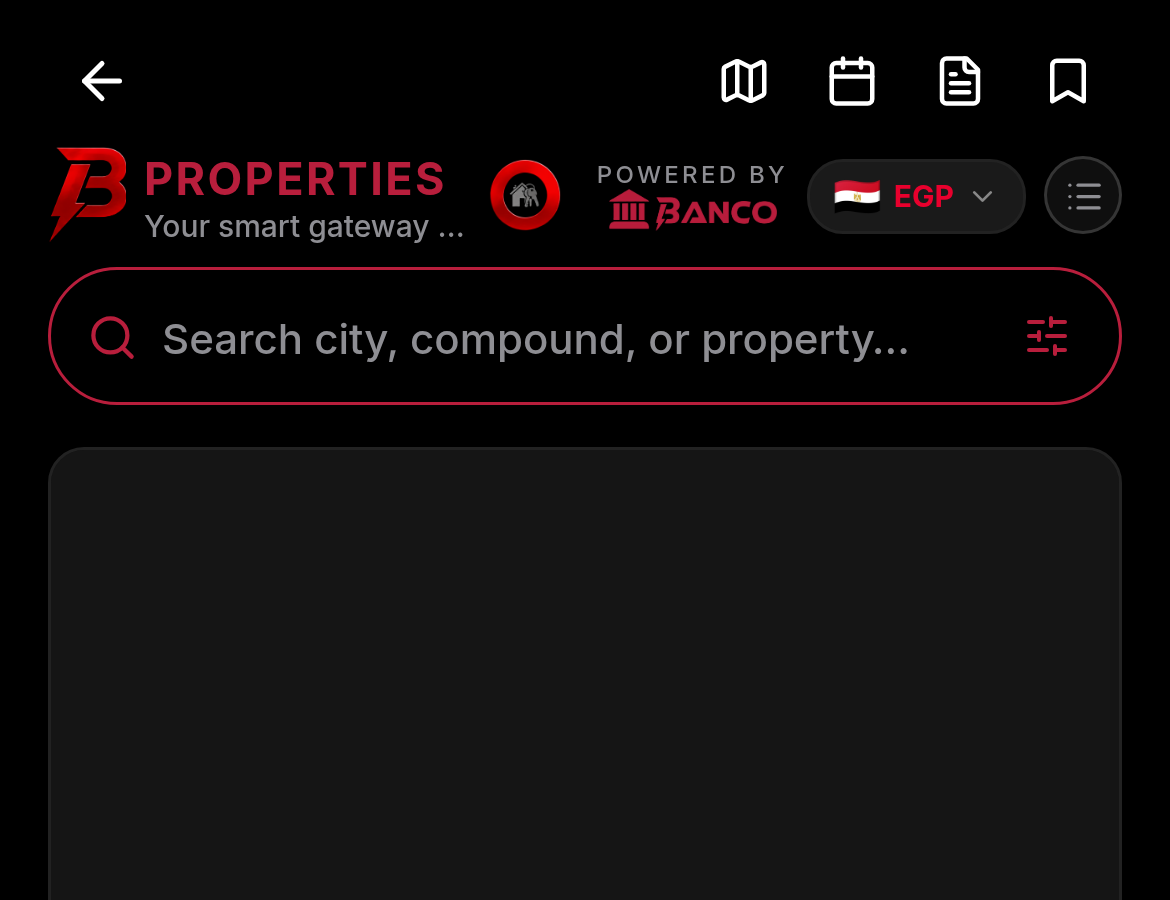
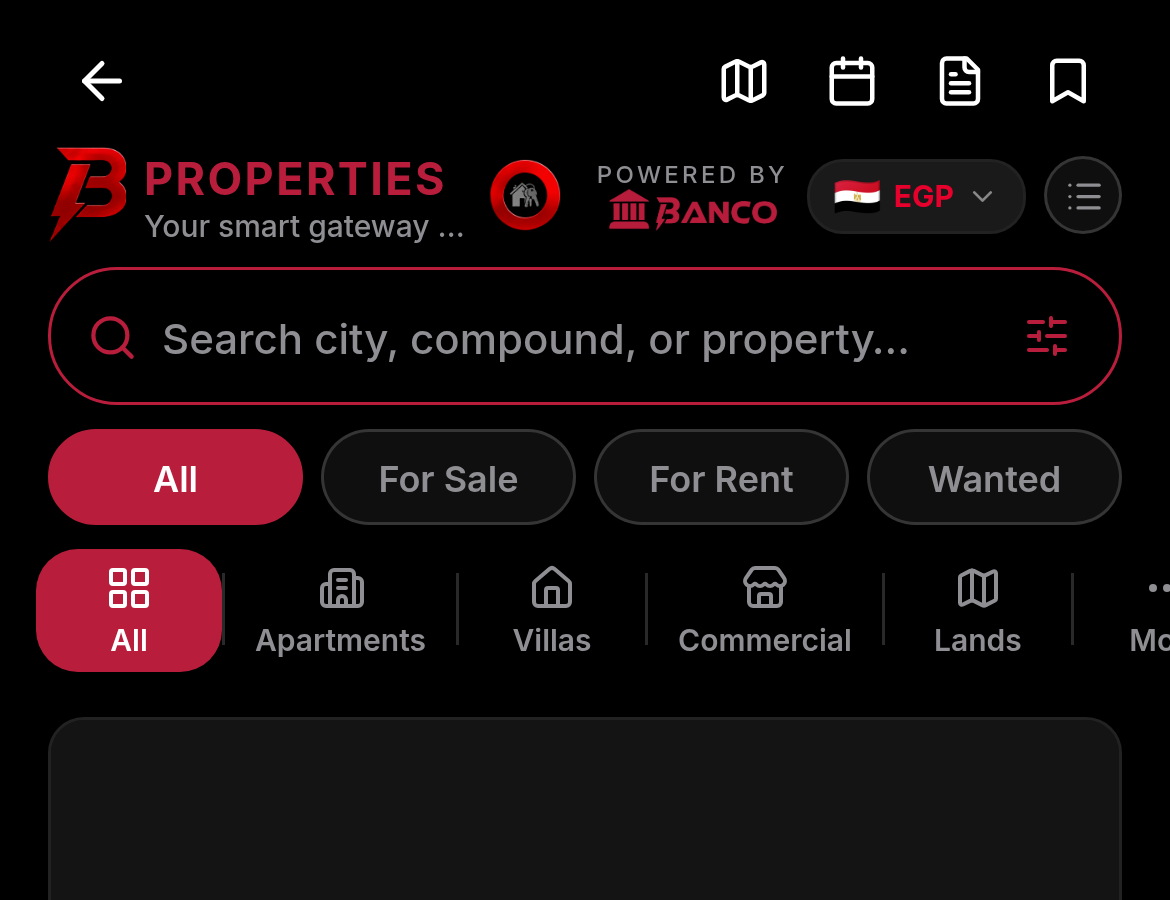
fix(property): pin the browse strips — they vanished on an empty result
I walked into the trap the other agent had just reverted, and found it by
reading their revert rather than by testing my own work.

The offer axis and the type strip had gone into the scrolling slice. That is
what took Property to 137dp and looked like hitting the ≈130 target. But
SearchResultsSurface renders its non-results overlay as an absoluteFill on an
opaque background, so it covers the list AND its ListHeaderComponent — and a
browse control handed down there disappears in exactly the state a buyer
needs it, looking at zero results and wanting to widen. Both strips are
pinned again, and Property's scrolling slice is empty, so its memo is gone
rather than handing the list an empty element.

The honest number is therefore 282dp → 227dp resting, ~187dp once the lockup
collapses. ≈130 was only ever reachable by hiding controls, which is the
thing we have now both done and both had to undo.

The rule this leaves, and it already describes every header that has been
accepted here: the scrolling slice takes identity — prose, wordmarks, heroes
— and never a control. Cars hands down its hero and its counts, and its Band
D is gated to an empty array so it never paints. B-CORE hands down its
tagline. Not one accepted header has handed down a control.

Channel updated with the corrected measurement, the rule, and the one
question I will not answer for the owner: whether 227 is accepted, since
going below it means hiding a control and I will not do that unasked.
[…]

diff --git a/artifacts/banco-mobile/components/search/SectionSearchApp.tsx b/artifacts/banco-mobile/components/search/SectionSearchApp.tsx
@@ -1524,105 +1524,6 @@ export function SectionSearchApp({
     facilityTypes,
   ]);
 
-  /**
-   * The half of the Property header that scrolls — the offer axis and the type
-   * strip. Both are refinements: a buyer reading results has already chosen
-   * sale-or-rent and a property type, so those rows do not need to hold a slice
-   * of the viewport for the rest of the session.
-   *
-   * The top bar, the brand lockup and the search row stay pinned above the
-   * list. Search and filters have to: the empty and error states render as an
-   * absolute overlay on the results, so anything inside the list is unreachable
-   * there.
-   */
-  const propertyScrollHeader = useMemo(() => {
-    if (!isRealEstateSection) return null;
-    return (
-      <PropertyHomeHeader
-        slot="scroll"
-        searchOpen={searchOpen}
-        draftQuery={draftQuery}
-        searchSaved={searchSaved}
-        activeFilterCount={activeFilterCount}
-        activePropertyType={reHeaderActiveType}
-        activeOfferKey={activeOfferKey ?? "all"}
-        wantedActive={criteria.listingMode === "buy"}
-        selectedPropertyType={criteria.propertyType}
-        typeTabs={reHeaderTypeTabs}
-        marketCountry={criteria.marketCountry}
-        sort={criteria.sort}
-        inputRef={inputRef}
-        onBack={goBack}
-        onSaveSearch={handleSaveSearch}
-        // This slot paints no top-bar control today — those live in the pinned
-        // half. They stay wired to the real handlers rather than no-ops, so
-        // nothing here becomes a dead control if a band ever moves between
-        // slots (the guard fails an empty handler, and it is right to).
-        onOpenStays={() => {
-          playSound(tap);
-          router.push("/section/booking" as Href);
-        }}
-        onOpenRequest={() => {
-          playSound(tap);
-          router.push("/listings/create?request=1&category=real_estate" as Href);
-        }}
-        onOpenMap={() => {
-          playSound(tap);
-          Haptics.selectionAsync();
-          openOrLatchMap({ inResultsView, setMapMode, setWantMap });
-        }}
-        onOpenFilters={() => {
-          playSound(tap);
-          setShowFilters(true);
-        }}
-        onOpenSearch={openSearch}
-        onCloseSearch={closeSearch}
-        onQueryChange={handleQueryChange}
-        onSubmitQuery={() => commitQueryNow(draftQuery)}
-        onClearQuery={clearQuery}
-        onSelectType={(value) => {
-          playSound(tap);
-          Haptics.selectionAsync();
-          selectRePropertyType(value);
-        }}
-        onSelectOffer={(engineKey) => {
-          playSound(tap);
-          Haptics.selectionAsync();
-          selectEngine(engineKey);
-        }}
-        onToggleWanted={() => {
-          playSound(tap);
-          Haptics.selectionAsync();
-          selectListingMode(criteria.listingMode === "buy" ? "all" : "buy");
-        }}
-        onOpenMarket={() => {
-          playSound(tap);
-          setMarketPickerOpen(true);
-        }}
-        onCycleSort={() => {
-          playSound(tap);
-          const cycle = ["recommended", "newest", "price_asc", "price_desc"] as const;
-          const next =
-            cycle[(cycle.indexOf(criteria.sort as (typeof cycle)[number]) + 1) % cycle.length];
-          update({ sort: next });
-        }}
-      />
-    );
-    // eslint-disable-next-line react-hooks/exhaustive-deps
-  }, [
-    isRealEstateSection,
-    searchOpen,
-    draftQuery,
-    searchSaved,
-    activeFilterCount,
-    reHeaderActiveType,
-    activeOfferKey,
-    criteria.listingMode,
-    criteria.propertyType,
-    criteria.marketCountry,
-    criteria.sort,
-    reHeaderTypeTabs,
-  ]);
 
   /**
    * The half of the B-CORE header that scrolls — just the tagline today.
@@ -2816,10 +2717,7 @@ export function SectionSearchApp({
           overlay={overlay}
           contentPaddingBottom={insets.bottom + 150}
           listHeader={
-            carScrollHeader ??
-            propertyScrollHeader ??
-            materialsScrollHeader ??
-            facilitiesScrollHeader
+            carScrollHeader ?? materialsScrollHeader ?? facilitiesScrollHeader
           }
           // Only Cars animates its collapse, so only Cars needs the offset.
           // Facilities uses the same split without the animation, and every

diff --git a/artifacts/banco-mobile/components/search/property/PropertyHomeHeader.tsx b/artifacts/banco-mobile/components/search/property/PropertyHomeHeader.tsx
@@ -119,15 +119,23 @@ type PropertyHomeHeaderProps = {
   /**
    * Which slice to paint — the Facilities model, applied here.
    *
-   *   "pinned"  A top bar · B brand lockup · C search   → held above the list
-   *   "scroll"  D type strip · E offer axis             → handed to the list
-   *   "all"     everything in the original order        → what a caller that
-   *                                                       does not split gets
+   *   "pinned"  everything — top bar · brand lockup · search · offer · types
+   *   "scroll"  nothing today
+   *   "all"     identical to "pinned"
    *
    * The blocker on this header was never the animation: BANCO lived in a brand
    * block BELOW the top bar, so splitting at the top bar alone would have sent
    * the brand down under the filter chips. Pinning the lockup WITH the top bar
    * solves it without moving a single node in the tree.
+   *
+   * Why "scroll" is empty. The offer axis and the type strip are the only two
+   * bands that could go, and they are browse CONTROLS. The non-results overlay
+   * is an absoluteFill on an opaque background, so it covers the list and its
+   * ListHeaderComponent together — a control handed down there disappears in
+   * precisely the state a buyer needs it, staring at zero results and wanting
+   * to widen. The prop stays because the height win here comes from the lockup
+   * collapsing on scroll, and because the day this header grows a hero or a
+   * counts strip, that is what "scroll" is for.
    */
   slot?: "all" | "pinned" | "scroll";
   /**
@@ -509,9 +517,14 @@ export function PropertyHomeHeader({
       ) : null}
 
       {/* Offer axis + Wanted (listingMode) — Wanted composes with sale/rent.
-              Scrolls: it is a refinement, and a buyer who is reading results
-              has already made this choice. */}
-      {showScroll ? (
+              PINNED, and this is not a preference.
+              The non-results overlay is an absoluteFill on an opaque
+              background, so it covers the list AND its ListHeaderComponent. A
+              browse control handed to the list therefore vanishes in exactly
+              the state a buyer most needs it: zero results, wanting to widen.
+              The accepted pattern in this repo only ever hands DOWN identity —
+              the cars hero, the B-CORE tagline — never a control. */}
+      {showPinned ? (
       <View
         style={[styles.offerRow, { flexDirection: rowDir }]}
         testID="re-offer-strip"
@@ -549,8 +562,9 @@ export function PropertyHomeHeader({
       </View>
       ) : null}
 
-      {/* Band D — primary types only (market lives next to BANCO above search). */}
-      {showScroll ? (
+      {/* Band D — primary types only (market lives next to BANCO above search).
+              Pinned for the same reason as the offer axis above. */}
+      {showPinned ? (
       <ScrollView
         horizontal
         showsHorizontalScrollIndicator={false}
@@ -584,8 +598,8 @@ export function PropertyHomeHeader({
       ) : null}
 
       {/* The picker is a modal, so it belongs to whichever slice owns the strip
-          that opens it — Band D, which scrolls. */}
-      {showScroll ? (
+          that opens it — Band D, which is pinned. */}
+      {showPinned ? (
       <Modal
         visible={typePicker != null}
         transparent

diff --git a/audit/handoff/CHANNEL-OWNER-CLAUDE-LIVE-AR.md b/audit/handoff/CHANNEL-OWNER-CLAUDE-LIVE-AR.md
@@ -251,10 +251,14 @@ test("W8-D: Factories screen locks facilities + chips chrome (no invented premiu
 
 **المقيس من المتصفح (390dp):**
 
-| القسم | قبل | بعد | الهدف في التكليف |
-|---|---:|---:|---|
-| العقارات | **282dp** | **137dp** | ≈130 ✅ |
-| المواد | **146dp** | **121dp** | «أقل» ✅ |
+| القسم | قبل | بعد (ثابت) | بعد (منكمش) | الهدف في التكليف |
+|---|---:|---:|---:|---|
+| العقارات | **282dp** | **227dp** | **~187dp** | ≈130 ❌ **مش قابل للتحقيق بأمان — اقرا تحت** |
+| المواد | **146dp** | **121dp** | ~121dp | «أقل» ✅ |
+
+> **الرقم ده تصحيح.** كتبت 137dp قبل كده وكان غلط — وصلتله بإني حطّيت شريط
+> العرض وشريط الأنواع في الشريحة المتحركة، وده بالظبط اللي رجّعته انت في
+> `fdbb4ff`. التفاصيل تحت.
 
 **الأدلة:** `audit/handoff/evidence/b1-{property,materials}-{before,after}.png`
 
@@ -288,8 +292,41 @@ test("W8-D: Factories screen locks facilities + chips chrome (no invented premiu
 `carScrollHeader` القايم، وتوسيع تعبيرين موجودين (`listHeader` و`scrollY`).
 **صفر إعادة هيكلة · صفر لمس لـ`useSearchMiniApp`.**
 
-**وقفت عند:** B-4 (توحيد النيوترالز) — وهو مربوط بـB-1 زي ما التكليف قال، فبقى
-جاهز يبدأ.
+#### 🔴 الأهم — وقعت في نفس فخّك، ومسكته من كوميت الرجوع بتاعك
+
+بعد ما دفعت B-1 لقيت `fdbb4ff` بتاعك:
+
+> *«the empty and error states overlay the list, so the type tabs disappeared
+> entirely whenever results were empty. I had written that exact trap into the
+> handover documents myself and then walked into it.»*
+
+**رحت أتأكد من شغلي — وكنت واقع في نفس الحاجة.** حطّيت **شريط العرض** و**شريط
+الأنواع** في الشريحة المتحركة. اتحققت في الكود: `SearchResultsSurface` بيرندر
+الـoverlay كـ`StyleSheet.absoluteFill` **بخلفية معتمة**، يعني بيغطّي القائمة
+**والـ`ListHeaderComponent` معاها**. النتيجة نفسها: صفر نتايج ← الشرايح تختفي ←
+المشتري عايز يوسّع ومش لاقي بإيه.
+
+**صلّحتها فورًا:** الشريطين رجعوا مثبّتين. شريحة العقارات المتحركة بقت **فاضية**،
+فشلت الميمو بتاعها بدل ما أسلّم عنصر فاضي للقائمة.
+
+**والقاعدة اللي طلعت من ده — أرشّحها تتكتب في المحظورات:**
+
+> **الشريحة المتحركة تاخد هوية بس — نصوص وشعارات. أي أداة تصفّح تفضل مثبّتة.**
+
+ودي مش رأي، دي النمط المقبول في الريبو فعلًا: السيارات بتنزّل الهيرو والإحصاءات
+(نصوص)، و`Band D` بتاعتها مقفولة على مصفوفة فاضية فمابتظهرش أصلًا. والمواد نزّلت
+**الشعار بس**. **مفيش أداة تصفّح واحدة اتنزّلت في أي هيدر اتقبل.**
+
+#### 📉 وبالتالي هدف الـ≈130dp للعقارات مش قابل للتحقيق
+
+الهدف ده بيفترض إن الشريطين ينزلوا للقائمة. لو نزلوا = العطل اللي رجّعته.
+**المكسب الآمن هو 282→227 ثابت و~187 منكمش** — مصدره ضغط القفل من تلات صفوف لصف
+واحد، مش إخفاء أدوات.
+
+**قرارك:** أقبل 227؟ ولا فيه طريق تالت انت شايفه؟ أنا مش هنزّل أداة تصفّح من
+غير أمر صريح منك.
+
+**وقفت عند:** B-4 (توحيد النيوترالز) — مربوط بـB-1 زي ما التكليف قال، وبقى جاهز.
 
 ---
 
